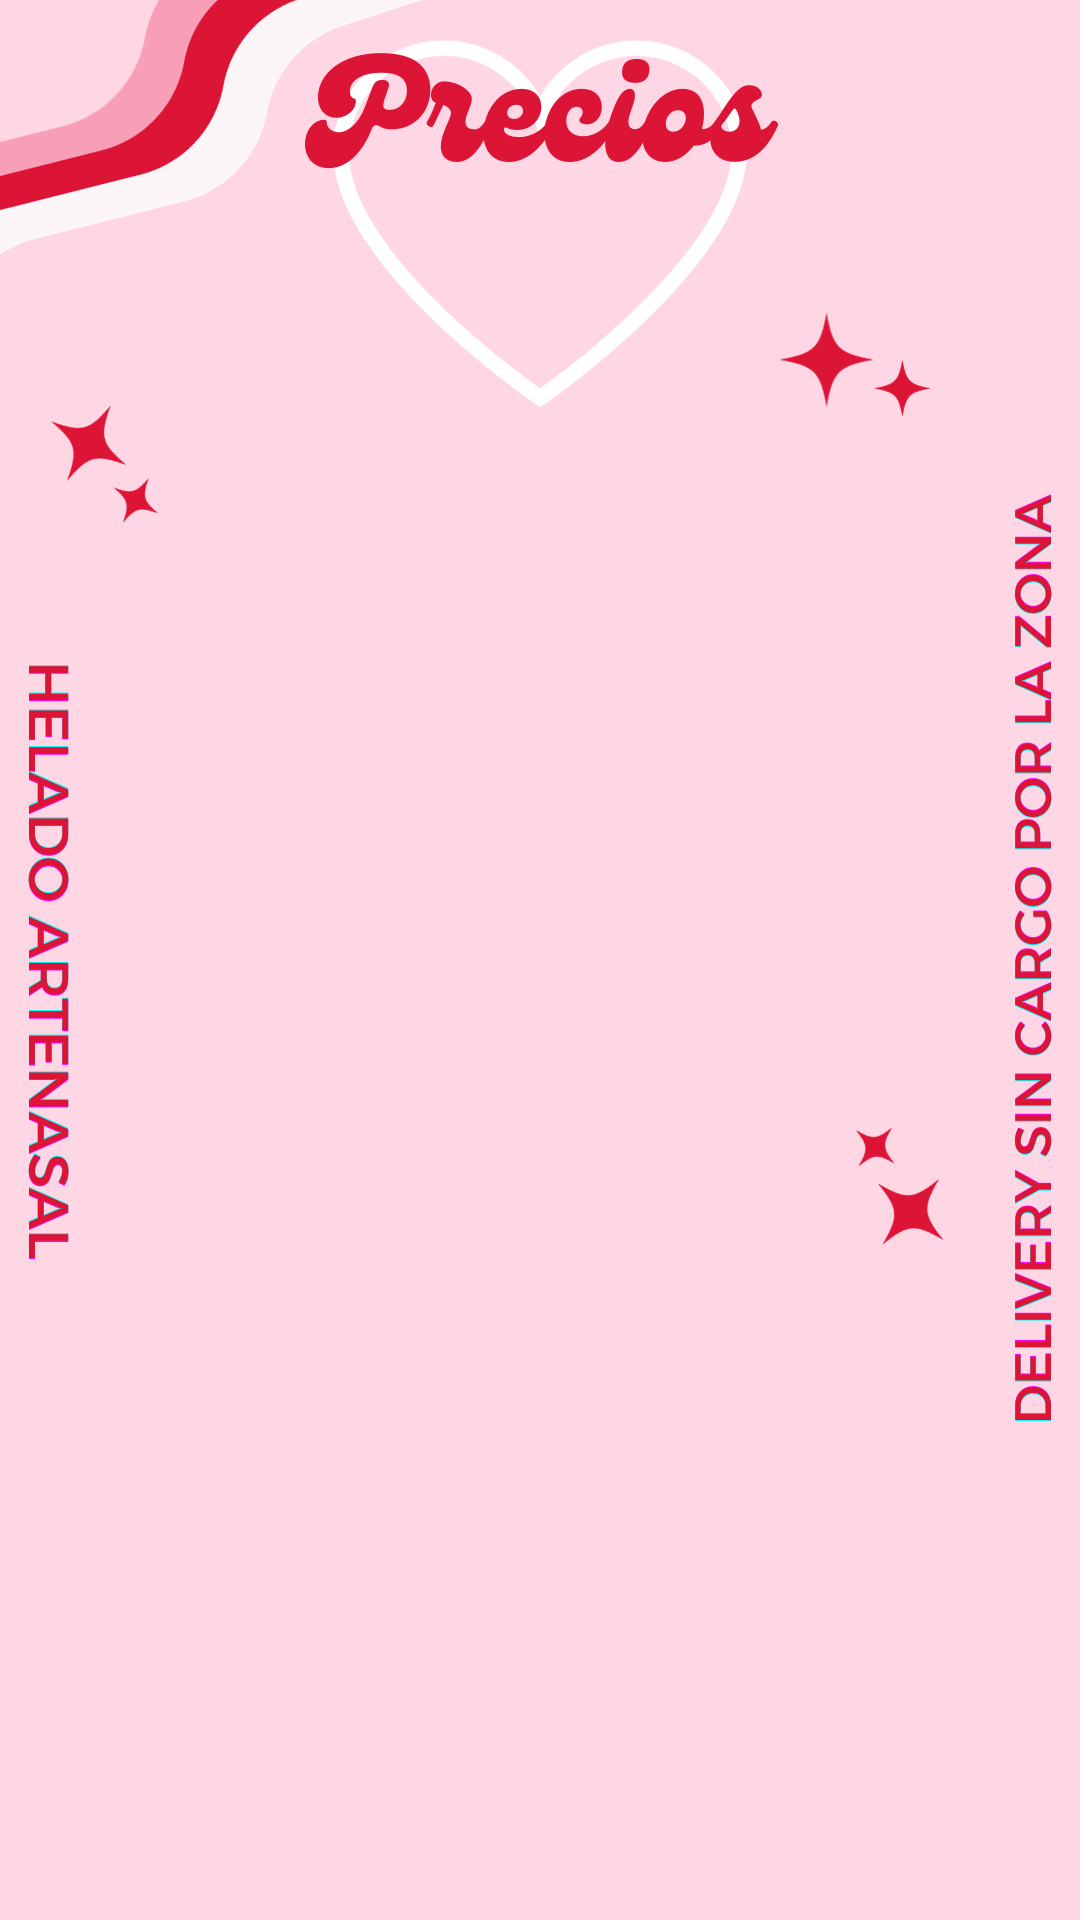
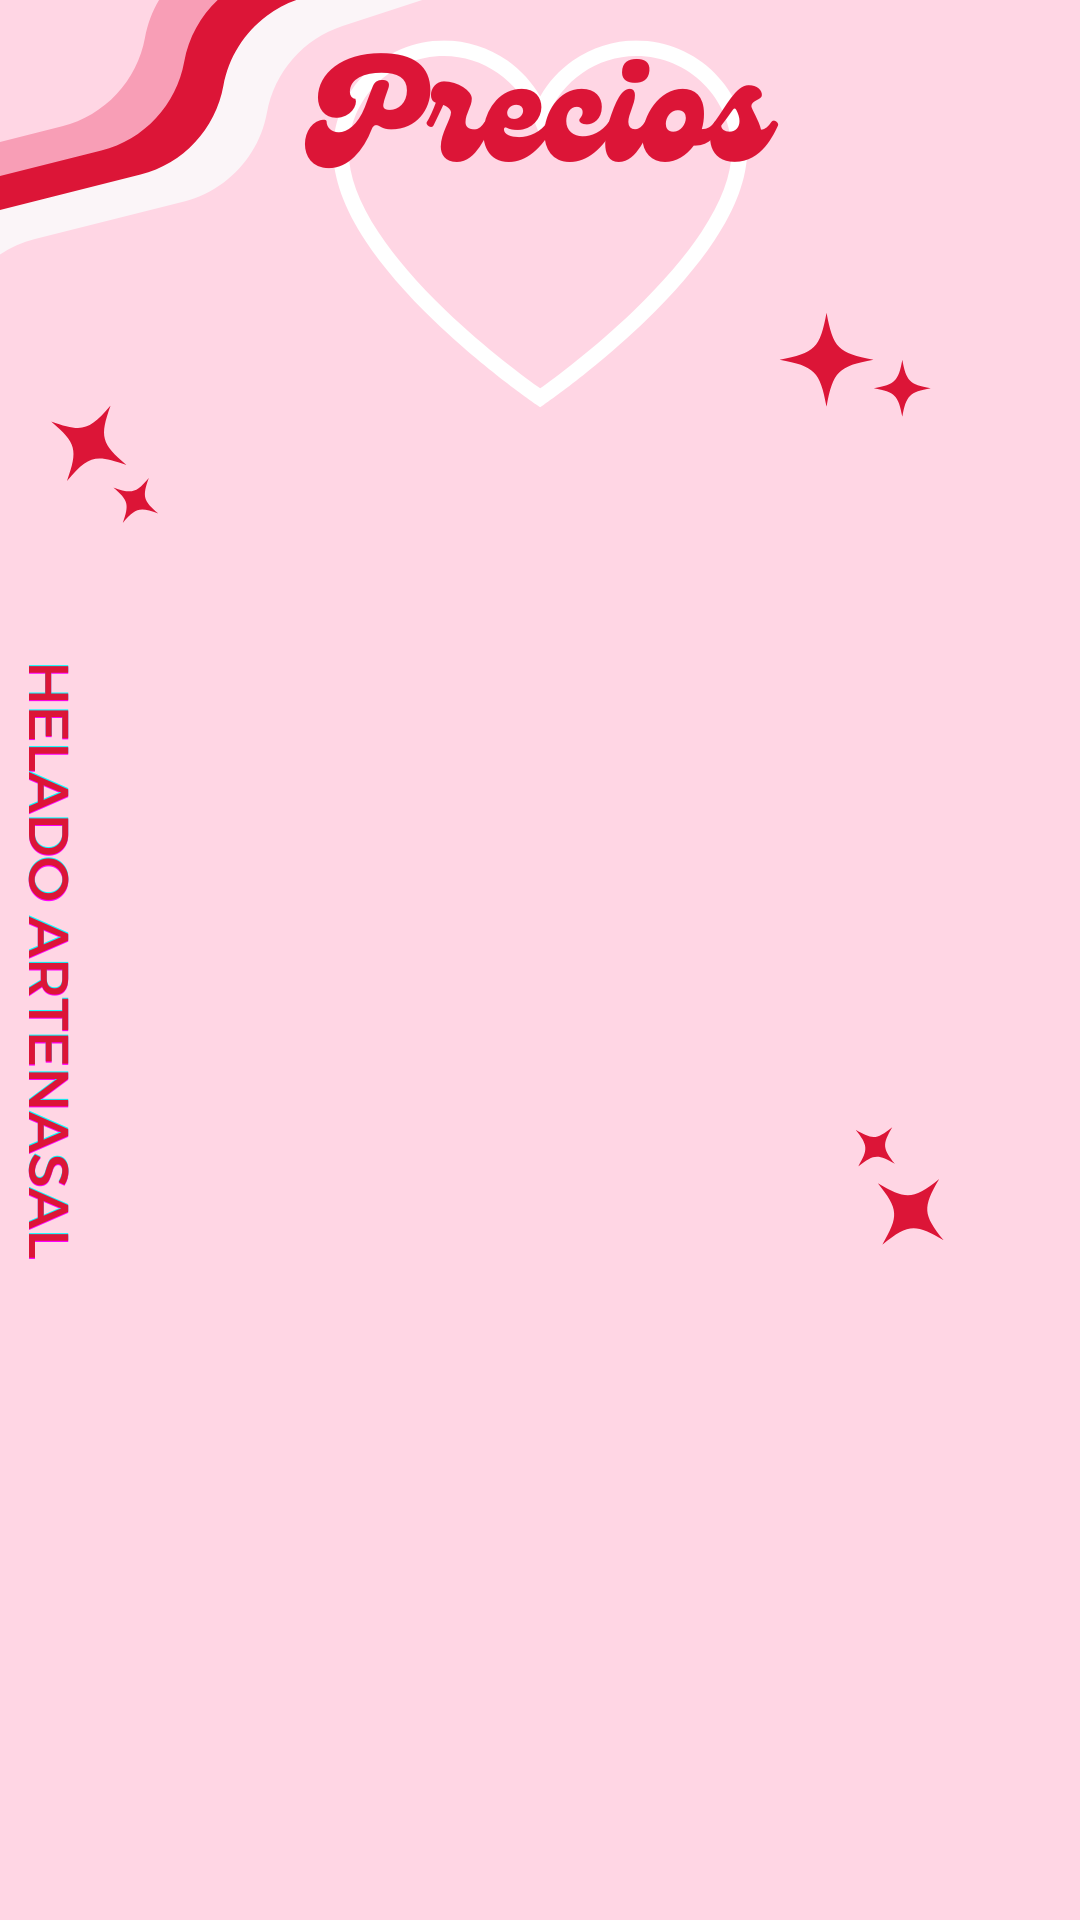
feat: :sparkles: move timestamp to somewhere where its better seen on a whatsapp chat

Changed region(s): [[0.9167, 0.25, 0.9778, 0.75]]

diff --git a/src/index.scss b/src/index.scss
@@ -406,15 +406,17 @@ section.share {
     .timestamp {
       position: absolute;
       z-index: 2;
+      transform: rotate(90deg);
+      transform-origin: right top;
       color: rgb(0, 0, 0);
-      p {
-        font-family: "DotGothic16", sans-serif;
-        letter-spacing: 1px;
-      }
 
-      top: 5px;
+      bottom: 150px;
       right: 5px;
       font-size: 0.85rem;
+      p {
+        font-family: "DotGothic16", sans-serif;
+        letter-spacing: 3px;
+      }
     }
   }
   .promotional {
